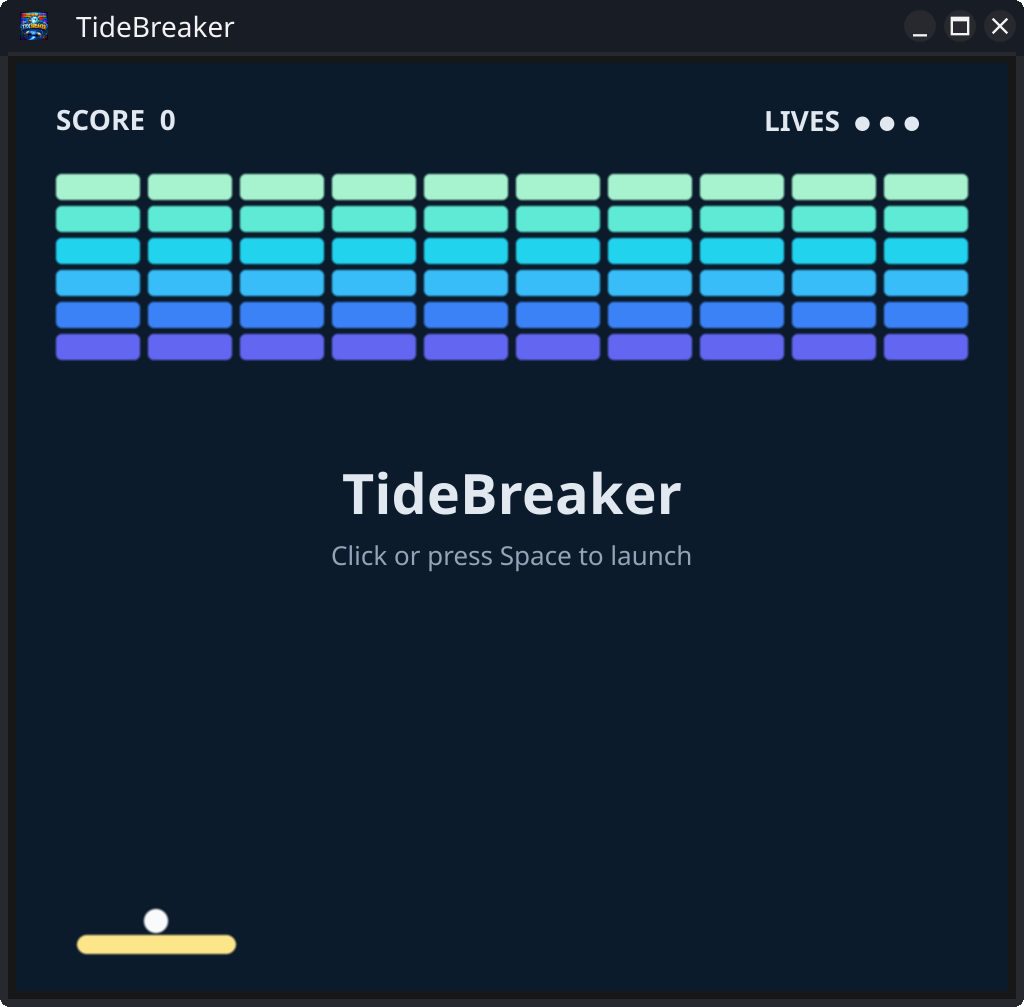
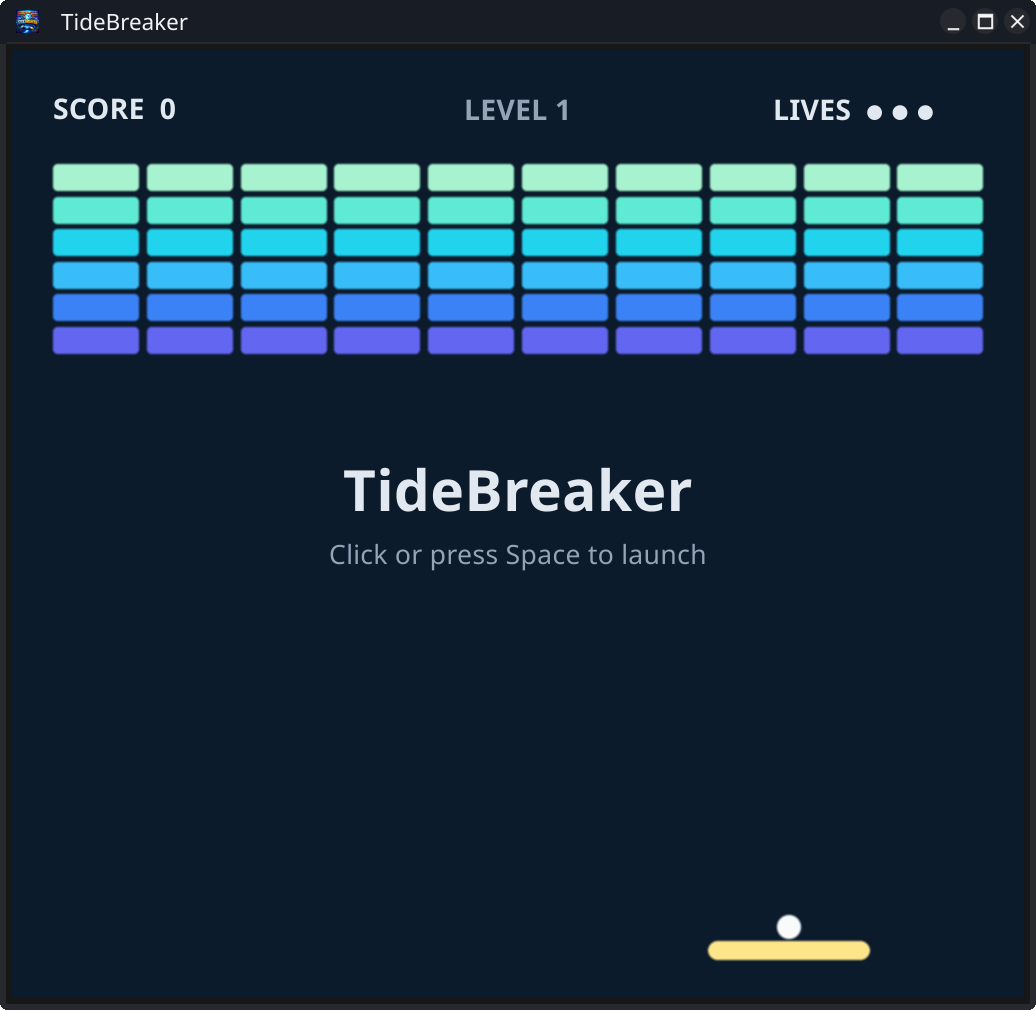
Update README with new screenshots

diff --git a/README.md b/README.md
@@ -7,9 +7,11 @@ The game ends when your lives run out.
 
 ![TideBreaker](https://img.shields.io/badge/Fyne-v2.7-blue)
 
-## Screenshot
+## Screenshots
 
 ![](img/screenshot.png)
+
+![](img/screenshot-level6.png)
 
 ## Play
 
@@ -37,45 +39,7 @@ go build -o tidebreaker .
 
 - **Three lives.** Lose one whenever the ball slips past your paddle. At zero, it's game over.
 - **Score by row.** Higher rows are worth more (60 at the top down to 10 at the bottom).
-- **Paddle english.** Where the ball hits the paddle steers its bounce — catch it
+- **Paddle angle.** Where the ball hits the paddle steers its bounce — catch it
   near the edge to angle a shot, hit it dead-centre to send it straight back up.
 - **Rising tide.** Each broken brick nudges the ball a little faster, and every
-  cleared board starts the next level quicker still. Survive as long as you can.
-
-- **Retro sound.** Every bounce, brick, lost life and game over plays a synthesized
-  square-wave blip — no audio assets, just tones generated in code. If no audio
-  device is available the game runs silently with no error.
-
-The window is fully resizable; the whole board scales to fit.
-
-## Project layout
-
-| File | Responsibility |
-| --- | --- |
-| `game.go` | Pure game state and physics — collisions, scoring, levels (no GUI or audio) |
-| `board.go` | The Fyne custom widget: rendering and mouse/keyboard input |
-| `sound.go` | Synthesizes the retro blips and plays them via `oto` |
-| `main.go` | App setup and the fixed-rate game loop |
-| `game_test.go` | Headless tests for the physics and rules |
-
-Because the model in `game.go` has no Fyne dependency, the rules are tested
-without a display:
-
-```sh
-go test ./...
-```
-
-## Implementation notes
-
-- Rendering uses Fyne `canvas` primitives (`Rectangle`, `Circle`, `Text`) driven
-  by a custom `WidgetRenderer`, rather than per-pixel rasterising.
-- A 60 FPS ticker advances the simulation. All state changes and the canvas
-  refresh are marshalled onto the UI goroutine via `fyne.Do`, so the model is
-  only ever touched from one thread and needs no locking.
-- Brick collisions use a Minkowski-inset test (the brick expanded by the ball
-  radius), bouncing off whichever edge the ball penetrated least.
-- Sound is decoupled from the model: `game.go` only emits `Sound` events through a
-  callback, so the rules stay pure and the tests run silently. `sound.go` renders
-  each effect once as 16-bit PCM (square waves with a short attack/release
-  envelope) and plays them through [`oto`](https://github.com/ebitengine/oto),
-  which needs no CGO and no audio asset files.
+  cleared board starts the next board layout quicker still. Survive as long as you can.